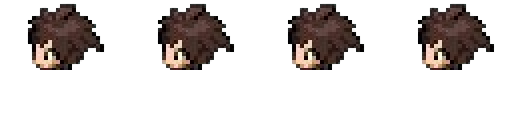
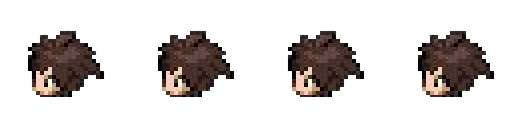
swimming pildid, adaptation

diff --git a/update.py b/update.py
@@ -22,11 +22,25 @@ class PlayerUpdate:
         'images/Player/Idle_Left.png', 'images/Player/Idle_Right.png', 'images/Player/Idle_Up.png', 'images/Player/Idle_Down.png'
     ])
 
+    # *** swimming *** #
+    sprite_sheets_swimming, animations_swimming = load_sprite_sheets([
+        'images/Player/Swim/Left_swimming.png', 'images/Player/Swim/Right_swimming.png', 'images/Player/Swim/Up_swimming.png', 'images/Player/Swim/Down_swimming.png'
+    ])
+
+    sprite_sheets_idle_swimming, animations_idle_swimming = load_sprite_sheets([
+        'images/Player/Swim/Idle_Left_swimming.png', 'images/Player/Swim/Idle_Right_swimming.png', 'images/Player/Swim/Idle_Up_swimming.png', 'images/Player/Swim/Idle_Down_swimming.png'
+    ])
+
     animation_speeds = [10, 10, 10, 10]
 
     # Teeb idle ja mitte idle animatsioone
     animation_manager = AnimationManager(sprite_sheets, animations, animation_speeds)
     idle_animation_manager = AnimationManager(sprite_sheets_idle, animations_idle,
+                                                    animation_speeds)
+
+    # *** swimming *** #
+    swimming_animation_manager = AnimationManager(sprite_sheets_swimming, animations, animation_speeds)
+    idle_swimming_animation_manager = AnimationManager(sprite_sheets_idle_swimming, animations_idle,
                                                     animation_speeds)
 
     def update_player(self) -> None:
@@ -83,11 +97,24 @@ class PlayerUpdate:
         # Kui player seisab (Animationi jaoks - IDLE)
         is_idle = not (keys[pygame.K_a] or keys[pygame.K_d] or keys[pygame.K_w] or keys[pygame.K_s] or keys[pygame.K_e])
 
-        if is_idle:
-            self.frame = PlayerUpdate.idle_animation_manager.update_animation(keys, is_idle)
-        else:
-            self.frame = PlayerUpdate.animation_manager.update_animation(keys, is_idle)
+        player_grid_x = int(UniversalVariables.player_x // UniversalVariables.block_size)
+        player_grid_y = int(UniversalVariables.player_y // UniversalVariables.block_size)
 
+        try:
+            if self.terrain_data[player_grid_y][player_grid_x] != 0:
+                print(type(self.terrain_data[player_grid_y][player_grid_x]))
+                if is_idle:
+                    self.frame = PlayerUpdate.idle_animation_manager.update_animation(keys, is_idle)
+                else:
+                    self.frame = PlayerUpdate.animation_manager.update_animation(keys, is_idle)
+            else:
+                if is_idle:
+                    self.frame = PlayerUpdate.idle_swimming_animation_manager.update_animation(keys, is_idle)
+                else:
+                    self.frame = PlayerUpdate.swimming_animation_manager.update_animation(keys, is_idle)
+        except Exception as e: 
+            print(f'Error {e}, defualt self.frame created')
+            self.frame = PlayerUpdate.idle_animation_manager.update_animation(keys, is_idle)
 
     def render_player(self) -> None:
         """ Renderib ainult playeri. """
